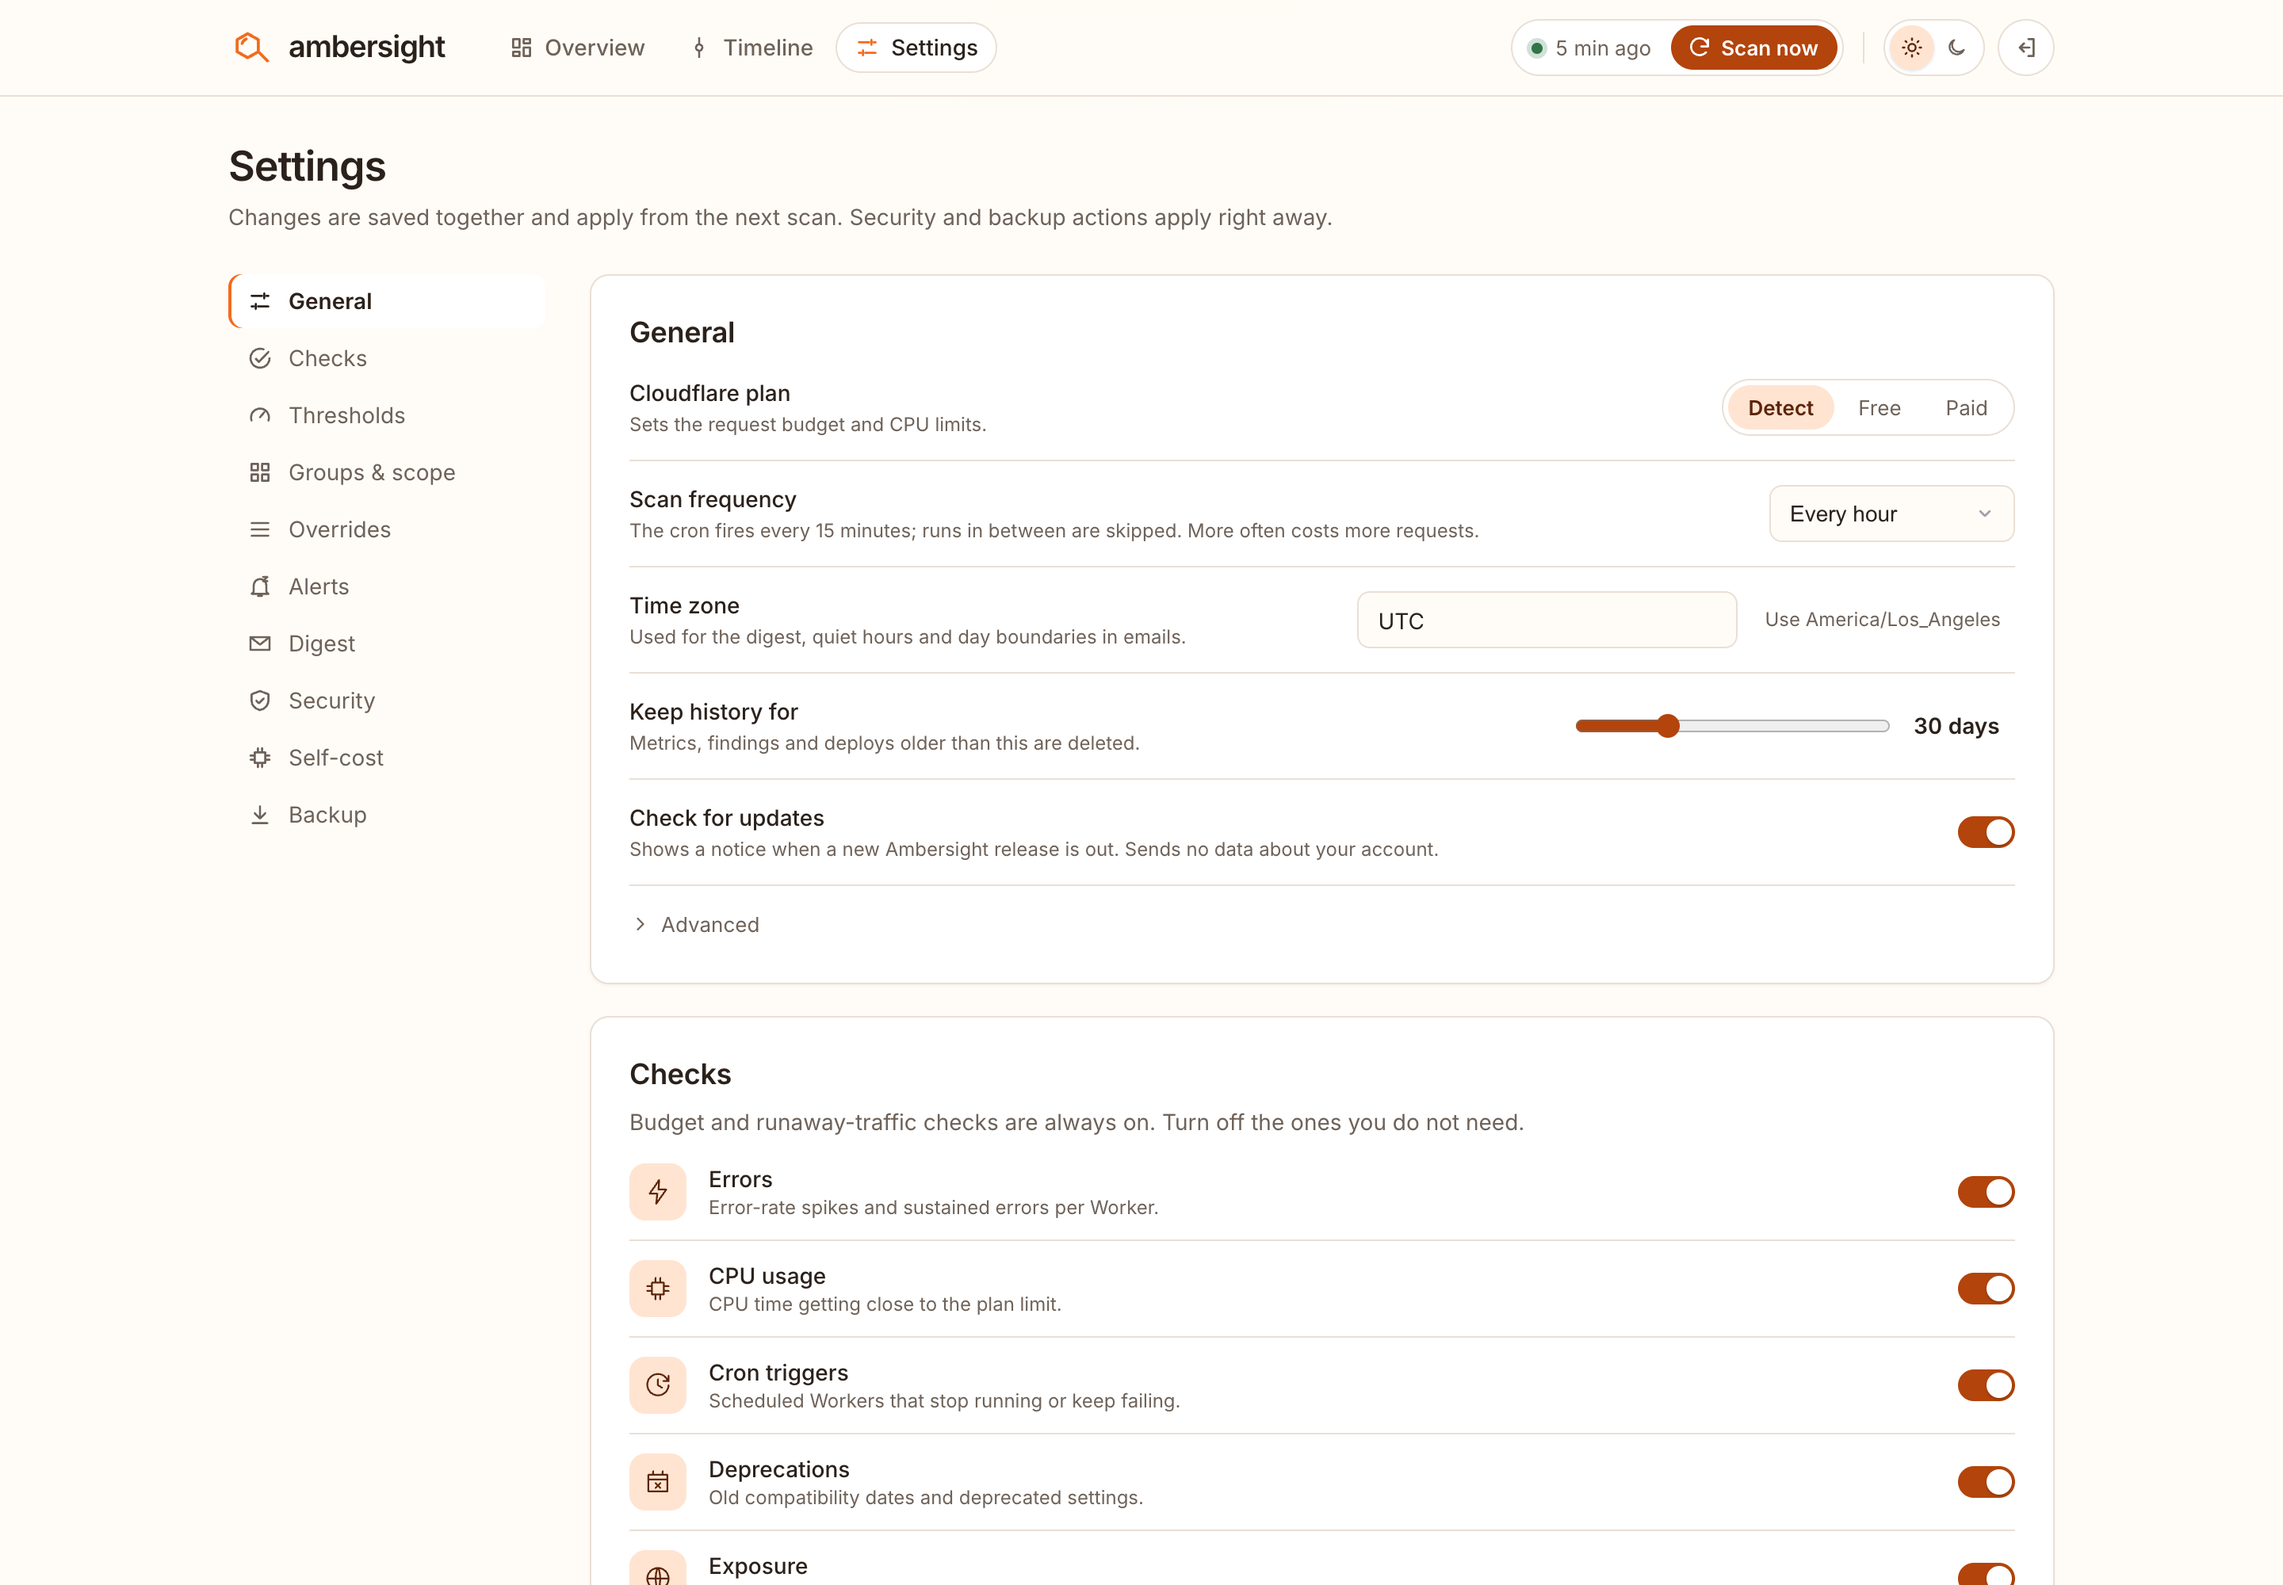
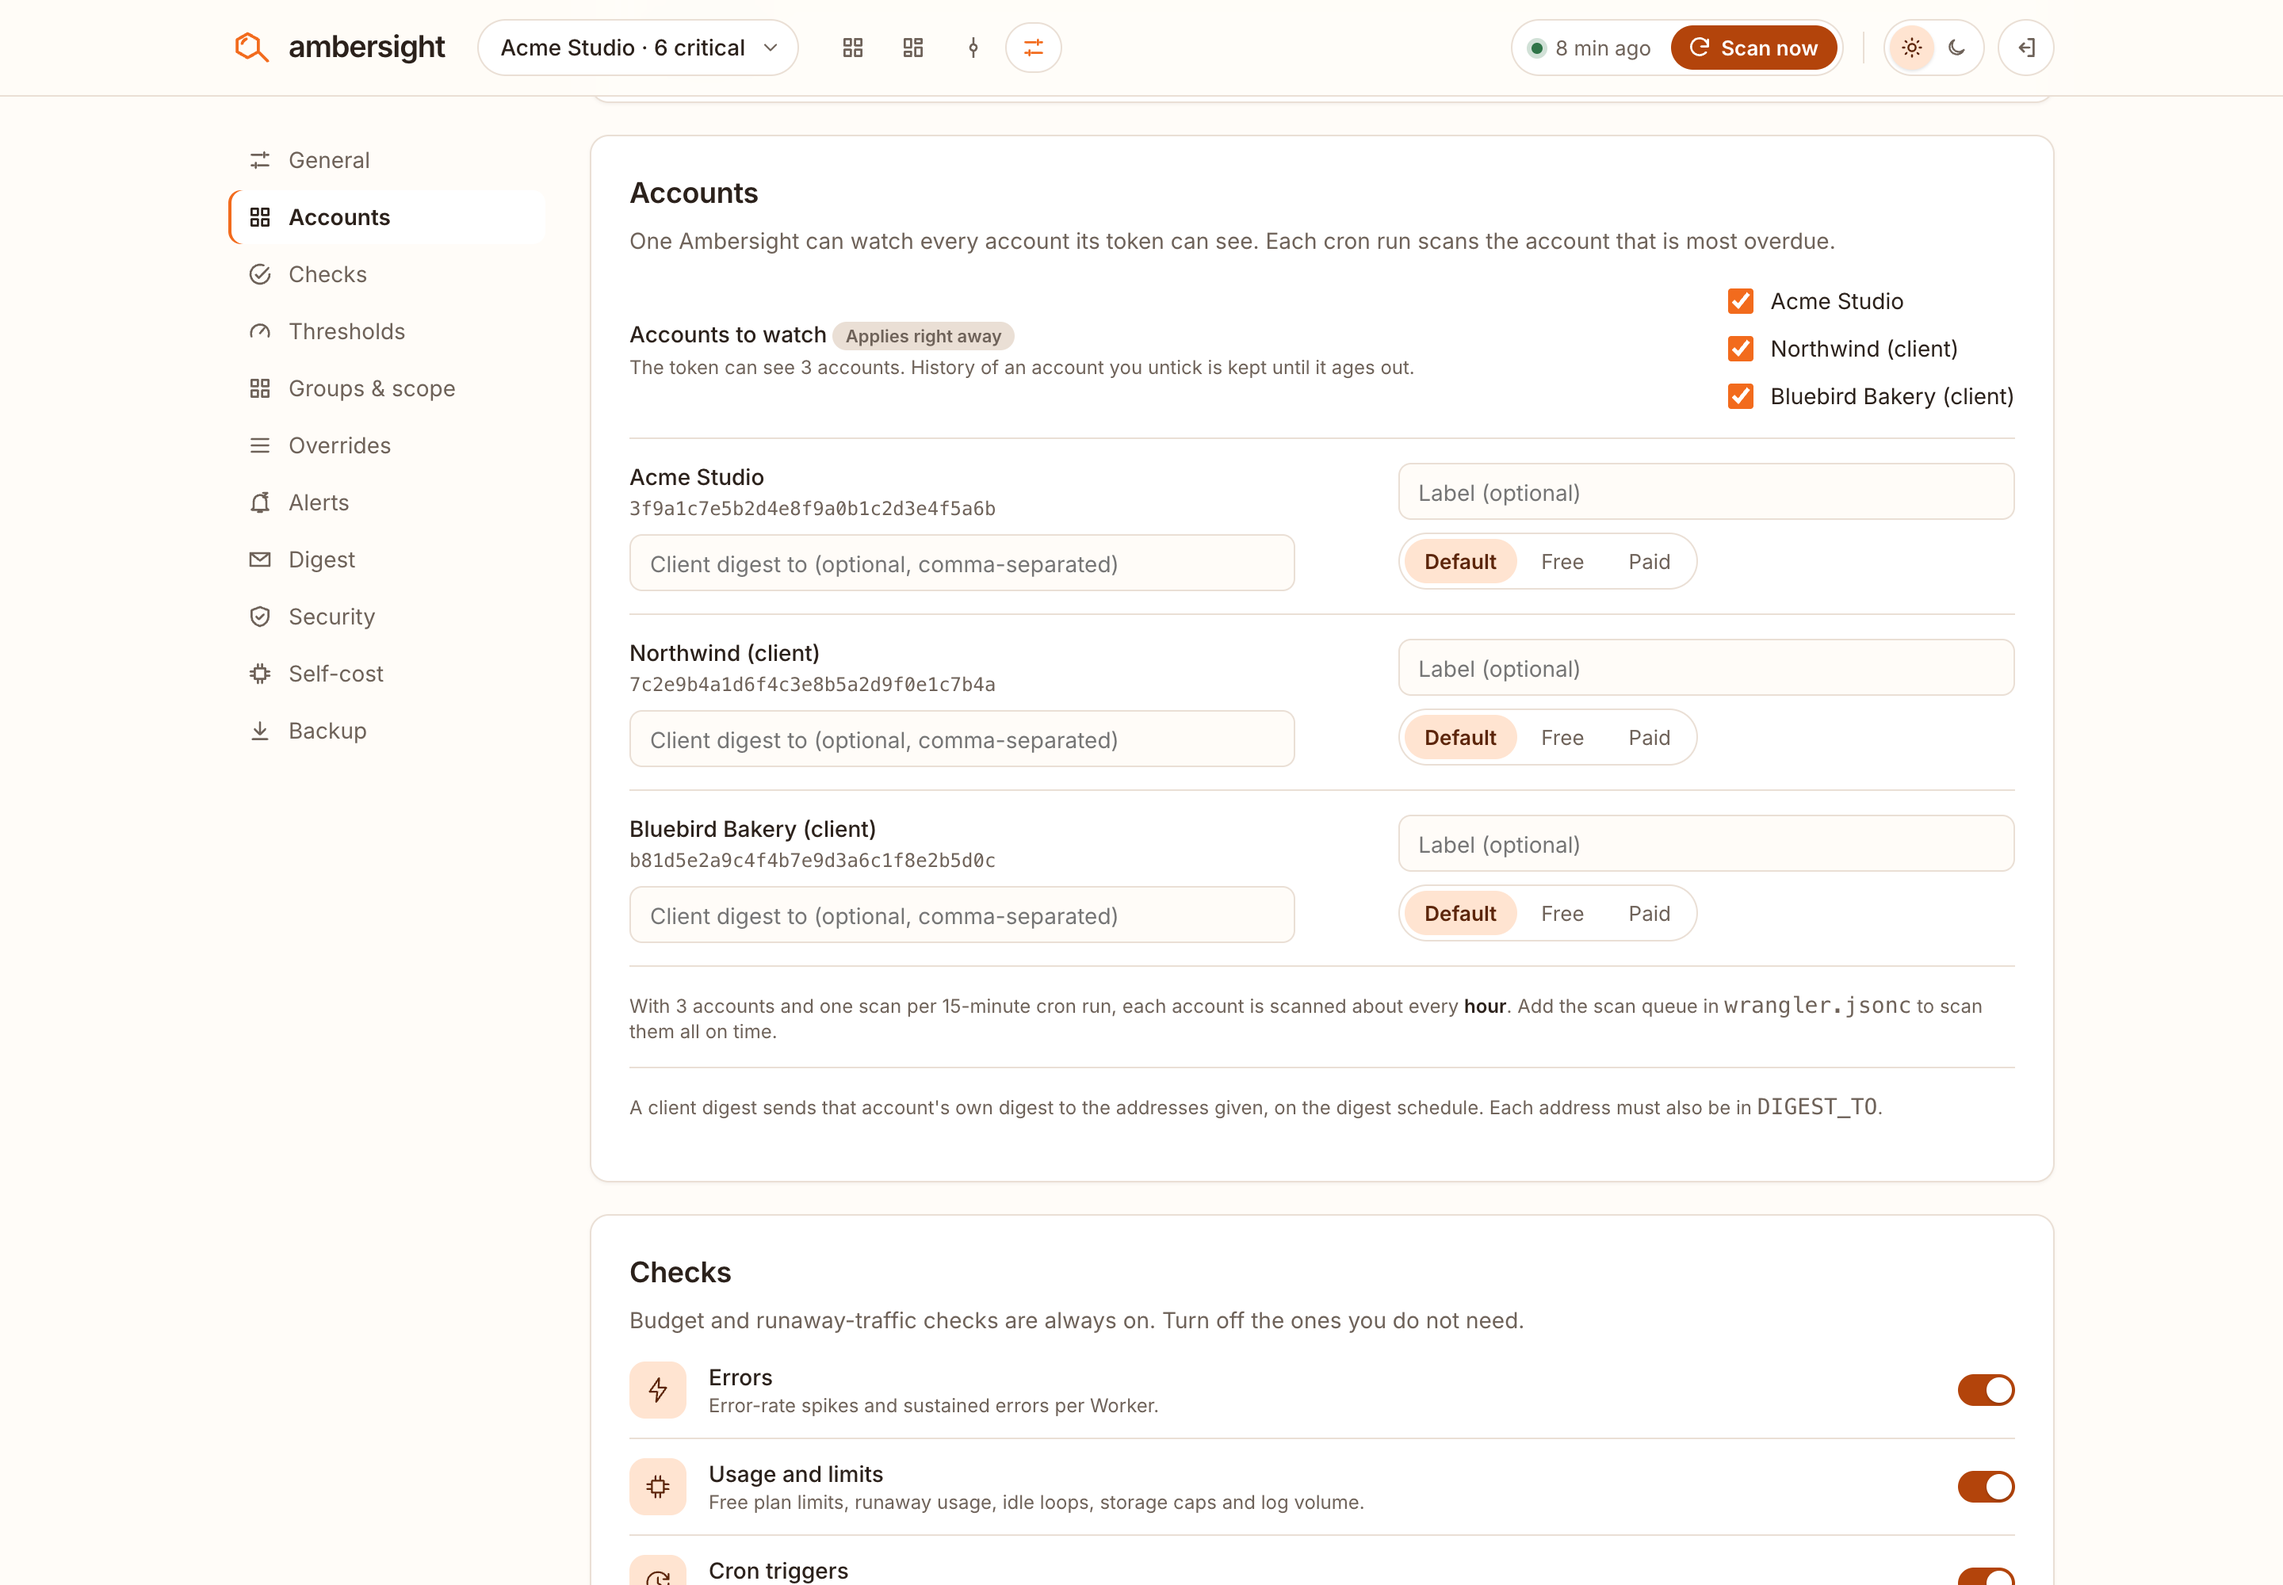
Release 0.1.1: version, README and new screenshots
- Number the multi-account release 0.1.1 (was 0.2.0, unreleased)
- README: "New in 0.1.1" summary; gallery adds All accounts, free plan
  limits and the estimated bill
- Screenshots retaken from a made-up three-account demo fleet run through
  the real scan code

diff --git a/src/worker/version.ts b/src/worker/version.ts
@@ -1,6 +1,6 @@
 // SPDX-License-Identifier: AGPL-3.0-only
 /** Keep in sync with package.json. Shown in the UI and compared with the latest GitHub release. */
-export const VERSION = '0.2.0';
+export const VERSION = '0.1.1';
 export const REPO = 'jntegz/ambersight';
 
 /** True if `latest` (e.g. "v0.2.0") is a newer semver than `current`. */

diff --git a/README.md b/README.md
@@ -17,7 +17,7 @@
 </p>
 
 <picture>
-  <img src="docs/screenshots/overview.png" alt="The Ambersight overview: 9 of 12 Workers need attention, the free request budget, requests and errors today, and a list of findings ranked by severity">
+  <img src="docs/screenshots/overview.png" alt="The Ambersight overview for one of several accounts: 9 of 12 Workers need attention, requests and errors today, storage limits and the estimated bill for the month">
 </picture>
 
 ---
@@ -30,6 +30,15 @@ It runs as **one Worker in your own Cloudflare account**. Every hour it reads yo
 
 - **On the Free plan**, the risk is an outage. Past 100,000 requests in a day, every Worker in the account answers with Error 1027 until midnight UTC, and the same goes for 1,000 KV writes, 5 million D1 rows read and the other daily limits. Ambersight warns you at 70% and again at 90% of each one, with the time you will hit it at today's pace.
 - **On Workers Paid**, the risk is the bill. There is no hard spending cap, so a loop, a retry storm or a crawler is billed for every hour it runs. Ambersight compares each Worker's last hour with its usual hour and alerts you at 5x, for requests, CPU time, subrequests and D1, KV, R2, Queues and Durable Object operations. It also catches Durable Object or Queue work that runs while nobody uses the app, and shows the estimated bill in dollars.
+
+> **New in 0.1.1**
+> - **Several accounts in one install**, with an account switcher, an **All accounts** view, and a label, plan and client digest per account.
+> - **74 checks, up from 39**: every free daily limit (D1, KV, Durable Objects, Queues, Workflows, Workers AI), storage caps, idle loops, Pages, audit log, certificates, dangling DNS, stuck rollouts and config drift.
+> - **Estimated bill** on Workers Paid: month to date, month-end forecast, the costliest Workers, and dollars on every runaway alert.
+> - **Richer timeline and digest**: audit log, Cloudflare notifications and Pages deploys on the timeline; a monthly digest; a printable client report.
+> - **Lighter**: an hourly scan of 200 Workers reads about 34,000 D1 rows instead of 293,000.
+>
+> Everything is still read-only and free. The full list is in the [changelog](CHANGELOG.md).
 
 ## What it catches
 
@@ -70,12 +79,19 @@ Also included: several accounts in one install with an "All accounts" view, grou
 
 <table>
   <tr>
-    <td width="50%"><img src="docs/screenshots/timeline.png" alt="Deploy timeline: every deploy across the fleet, with a deploy of auth-gateway flagged because the error rate rose right after it"><br><sub><b>Deploy timeline.</b> Every deploy across the fleet. The one followed by a new problem is flagged.</sub></td>
-    <td width="50%"><img src="docs/screenshots/settings.png" alt="Settings: plan, scan frequency, time zone, history retention and the list of checks with on/off switches"><br><sub><b>Settings.</b> Every check, threshold, schedule and alert route, stored in D1. Export and import as JSON.</sub></td>
+    <td width="50%"><img src="docs/screenshots/accounts.png" alt="All accounts: three Cloudflare accounts side by side, each with its critical, warning and info counts, Workers, requests today, error rate and free request budget"><br><sub><b>All accounts.</b> One install watches every account the token can see. Open one to see its fleet.</sub></td>
+    <td width="50%"><img src="docs/screenshots/limits.png" alt="Free plan limits: D1 rows read at 4.2M of 5M and a D1 database at 431 MB of 500 MB in orange, KV reads, KV writes and D1 rows written in green"><br><sub><b>Free plan limits.</b> Every daily limit and storage cap, not just requests. Orange from 70%.</sub></td>
   </tr>
   <tr>
+    <td width="50%"><img src="docs/screenshots/cost.png" alt="Estimated bill: $5.42 so far this month, $5.59 at month end at this pace, split by product, with the costliest Workers listed"><br><sub><b>Estimated bill.</b> On Workers Paid: month to date, the month-end forecast and the costliest Workers.</sub></td>
+    <td width="50%"><img src="docs/screenshots/timeline.png" alt="Deploy timeline: deploys, a failed Pages deploy and audit log entries, with a deploy of auth-gateway flagged because the error rate rose right after it"><br><sub><b>Deploy timeline.</b> Deploys, Pages builds and audit log changes. The deploy followed by a new problem is flagged.</sub></td>
+  </tr>
+  <tr>
+    <td width="50%"><img src="docs/screenshots/settings.png" alt="Settings › Accounts: the accounts to watch, and a label, client digest address and plan for each one"><br><sub><b>Settings.</b> Accounts, checks, thresholds, schedules and alert routes, stored in D1. Export and import as JSON.</sub></td>
     <td width="50%"><img src="docs/screenshots/overview-dark.png" alt="The overview in dark mode"><br><sub><b>Dark mode.</b> Follows your system, or pick one.</sub></td>
-    <td width="50%" align="center"><img src="docs/screenshots/mobile.png" width="240" alt="The overview on a phone"><br><sub><b>On your phone.</b> Check the fleet from anywhere.</sub></td>
+  </tr>
+  <tr>
+    <td colspan="2" align="center"><img src="docs/screenshots/mobile.png" width="240" alt="The overview on a phone: a client account at 74% of its free requests, on track to reach 78% by midnight"><br><sub><b>On your phone.</b> Check the fleet from anywhere.</sub></td>
   </tr>
 </table>
 

diff --git a/CHANGELOG.md b/CHANGELOG.md
@@ -2,7 +2,7 @@
 
 All notable changes to Ambersight. Each version here has a matching [GitHub release](https://github.com/jntegz/ambersight/releases), which is what the update notice in the dashboard reads.
 
-## 0.2.0 (unreleased)
+## 0.1.1 (2026-11-10)
 
 Everything here is built on free Cloudflare features and keeps the read-only token. See [docs/research/free-cloudflare-features.md](docs/research/free-cloudflare-features.md) for why each one was chosen.
 
